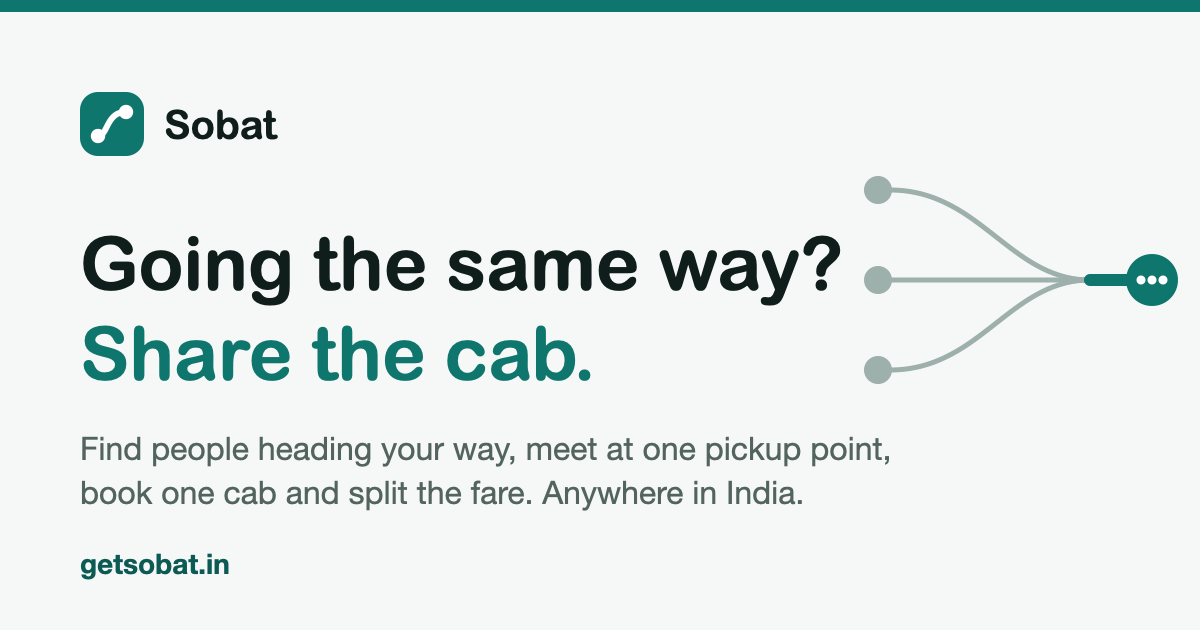
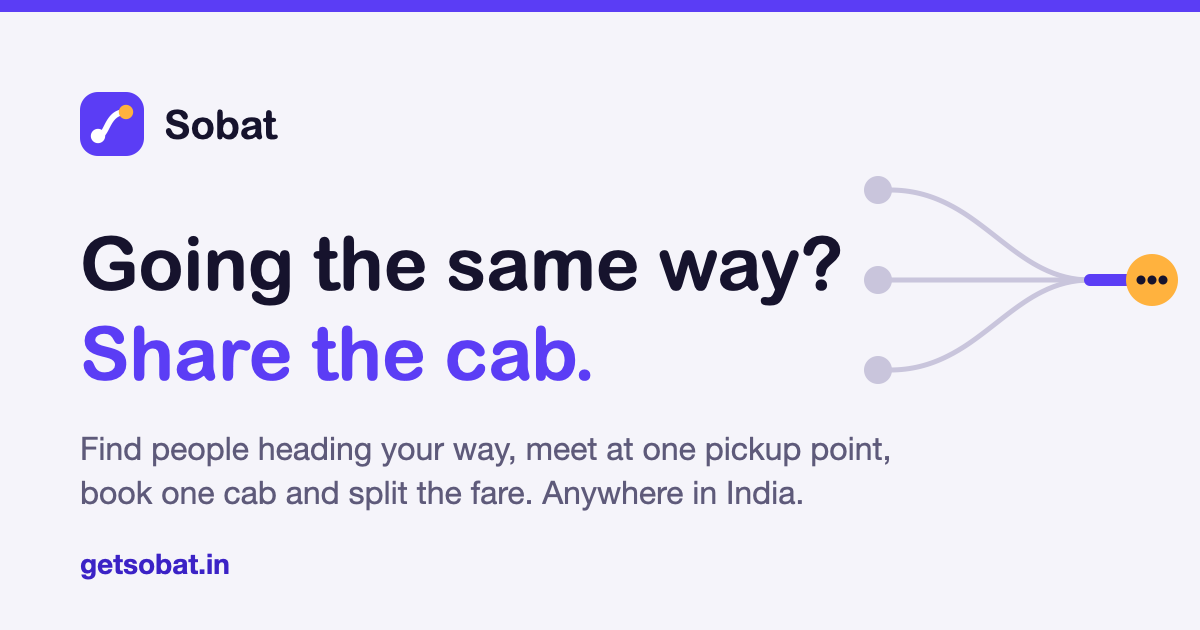
New look and copy to match the redesigned app
Indigo / marigold brand (logo, favicon, share image, icons, CSS colours
in light and dark mode). How it works now reads "say where you're
going, join a ride or start one". Safety copy no longer claims every
rider is ID-verified before their first ride (they verify a mobile
number; ID checks come later) and adds "rides, not profiles". Privacy
and Terms mirror the app's updated drafts: what stays on the phone, who
sees what before and after joining, 30-day chat and location retention.

diff --git a/index.html b/index.html
@@ -20,7 +20,7 @@
   <meta name="twitter:title" content="Sobat: Share a Cab and Split the Fare | Cab Sharing in India">
   <meta name="twitter:description" content="Cab sharing for India. Find people going the same way, meet at one pickup point, book one Ola, Uber or auto, and split the fare. Women-only rides too.">
   <meta name="twitter:image" content="https://getsobat.in/assets/og-image.png">
-  <meta name="theme-color" content="#0F766E">
+  <meta name="theme-color" content="#5B3DF5">
   <link rel="icon" href="assets/favicon.svg" type="image/svg+xml">
   <link rel="apple-touch-icon" href="assets/apple-touch-icon.png">
   <link rel="stylesheet" href="assets/site.css">
@@ -54,7 +54,7 @@
           "name": "How do I share a cab with someone going the same way?",
           "acceptedAnswer": {
             "@type": "Answer",
-            "text": "Post your trip on Sobat with your pickup point, drop point and departure time. Sobat shows rides heading to the same area at about the same time. Join one, meet your group at the pickup point, and book a single cab together."
+            "text": "Tell Sobat where you're going. It shows rides already heading there at about the same time, nearest first. Join one in a tap, or start your own so others going your way can join. Then meet at the pickup point and book a single cab together."
           }
         },
         {
@@ -70,7 +70,7 @@
           "name": "Is sharing a cab with strangers safe?",
           "acceptedAnswer": {
             "@type": "Answer",
-            "text": "Every rider is verified before their first ride, riders rate each other after every trip, and everyone meets at a public pickup point. You coordinate in a group chat without sharing phone numbers, and you can report or block anyone."
+            "text": "Every rider signs in with a verified mobile number, riders rate each other after every ride, and everyone meets at a public pickup point. Before you join, you see the ride, not the people. You coordinate in the ride's chat without sharing phone numbers, and you can report or block anyone."
           }
         },
         {
@@ -94,7 +94,7 @@
           "name": "Where does Sobat work?",
           "acceptedAnswer": {
             "@type": "Answer",
-            "text": "Anywhere in India. Post a trip from wherever you are. The more people near you use Sobat, the quicker you'll find someone going your way, so tell your colleagues and friends."
+            "text": "Anywhere in India. Search from wherever you are. The more people near you use Sobat, the quicker you'll find someone going your way, so tell your colleagues and friends."
           }
         },
         {
@@ -123,7 +123,7 @@
   <header class="site-header">
     <div class="container">
       <a class="brand" href="./" aria-label="Sobat home">
-        <svg viewBox="0 0 32 32" aria-hidden="true"><rect width="32" height="32" rx="9" fill="#0F766E"/><path d="M9 22C14 22 13 10 23 10" stroke="#FFFFFF" stroke-width="3" fill="none" stroke-linecap="round"/><circle cx="9" cy="22" r="3.6" fill="#FFFFFF"/><circle cx="23" cy="10" r="3.6" fill="#FFFFFF"/></svg>
+        <svg viewBox="0 0 32 32" aria-hidden="true"><rect width="32" height="32" rx="9" fill="#5B3DF5"/><path d="M9 22C14 22 13 10 23 10" stroke="#FFFFFF" stroke-width="3" fill="none" stroke-linecap="round"/><circle cx="9" cy="22" r="3.6" fill="#FFFFFF"/><circle cx="23" cy="10" r="3.6" fill="#FFB23E"/></svg>
         Sobat
       </a>
       <nav class="site-nav" aria-label="Main">
@@ -240,8 +240,8 @@
           <h2>Four steps from solo cab to shared ride</h2>
         </div>
         <ol class="steps reveal">
-          <li><h3>Post your trip</h3><p>Set your pickup, your drop, and when you're leaving. Right now, or later today.</p></li>
-          <li><h3>Find people going your way</h3><p>See rides heading to the same area at the same time, and choose one to join.</p></li>
+          <li><h3>Say where you're going</h3><p>Pick your drop and when you're leaving: right now, or later. Your pickup is where you are.</p></li>
+          <li><h3>Join a ride, or start one</h3><p>See rides already going your way, nearest first, and join in a tap. Nothing fits? Start one, and anyone searching your route sees it.</p></li>
           <li><h3>Meet at the pickup point</h3><p>One meeting spot per ride. Tap "I'm here" so everyone knows who has arrived.</p></li>
           <li><h3>Book one cab, split the fare</h3><p>One person books the Ola, Uber or auto. Everyone settles their share by UPI or cash.</p></li>
         </ol>
@@ -264,11 +264,11 @@
           <h2>Built for riding with people you haven't met yet</h2>
         </div>
         <div class="grid-3 reveal">
-          <div><h3>Verified riders</h3><p>Every rider is verified before their first shared ride. One account per person.</p></div>
+          <div><h3>Rides, not profiles</h3><p>Before you join, you see where a ride goes, when it leaves and how it's rated, never who's in it.</p></div>
+          <div><h3>Verified numbers</h3><p>Every rider signs in with a verified mobile number. One account per person.</p></div>
           <div><h3>Women-only rides</h3><p>Women can choose rides where every rider is a woman.</p></div>
           <div><h3>Ratings both ways</h3><p>Riders rate each other after every trip, so no-shows and bad behaviour become visible.</p></div>
-          <div><h3>No phone numbers shared</h3><p>Coordinate in the ride's group chat. Your number stays private.</p></div>
-          <div><h3>One meeting point</h3><p>Everyone meets at the same public spot, with a live board showing who has arrived.</p></div>
+          <div><h3>No phone numbers shared</h3><p>Coordinate in the ride's chat, with quick replies. Your number stays private.</p></div>
           <div><h3>Report and block</h3><p>Report anyone who makes you uncomfortable, and block them from ever matching with you again.</p></div>
         </div>
       </div>
@@ -283,7 +283,7 @@
         <div class="faq reveal">
           <details>
             <summary>How do I share a cab with someone going the same way?</summary>
-            <p>Post your trip on Sobat with your pickup point, drop point and departure time. Sobat shows rides heading to the same area at about the same time. Join one, meet your group at the pickup point, and book a single cab together.</p>
+            <p>Tell Sobat where you're going. It shows rides already heading there at about the same time, nearest first. Join one in a tap, or start your own so others going your way can join. Then meet at the pickup point and book a single cab together.</p>
           </details>
           <details>
             <summary>How is the cab fare split?</summary>
@@ -291,7 +291,7 @@
           </details>
           <details>
             <summary>Is sharing a cab with strangers safe?</summary>
-            <p>Every rider is verified before their first ride, riders rate each other after every trip, and everyone meets at a public pickup point. You coordinate in a group chat without sharing phone numbers, and you can report or block anyone.</p>
+            <p>Every rider signs in with a verified mobile number, riders rate each other after every ride, and everyone meets at a public pickup point. Before you join, you see the ride, not the people. You coordinate in the ride's chat without sharing phone numbers, and you can report or block anyone.</p>
           </details>
           <details>
             <summary>Can women choose women-only rides?</summary>
@@ -303,7 +303,7 @@
           </details>
           <details>
             <summary>Where does Sobat work?</summary>
-            <p>Anywhere in India. Post a trip from wherever you are. The more people near you use Sobat, the quicker you'll find someone going your way, so tell your colleagues and friends.</p>
+            <p>Anywhere in India. Search from wherever you are. The more people near you use Sobat, the quicker you'll find someone going your way, so tell your colleagues and friends.</p>
           </details>
           <details>
             <summary>Does Sobat book the cab for us?</summary>

diff --git a/privacy.html b/privacy.html
@@ -14,7 +14,7 @@
   <meta property="og:image" content="https://getsobat.in/assets/og-image.png">
   <meta name="twitter:card" content="summary_large_image">
   <link rel="apple-touch-icon" href="assets/apple-touch-icon.png">
-  <meta name="theme-color" content="#0F766E">
+  <meta name="theme-color" content="#5B3DF5">
   <link rel="icon" href="assets/favicon.svg" type="image/svg+xml">
   <link rel="stylesheet" href="assets/site.css">
 </head>
@@ -22,7 +22,7 @@
   <header class="site-header">
     <div class="container">
       <a class="brand" href="./" aria-label="Sobat home">
-        <svg viewBox="0 0 32 32" aria-hidden="true"><rect width="32" height="32" rx="9" fill="#0F766E"/><path d="M9 22C14 22 13 10 23 10" stroke="#FFFFFF" stroke-width="3" fill="none" stroke-linecap="round"/><circle cx="9" cy="22" r="3.6" fill="#FFFFFF"/><circle cx="23" cy="10" r="3.6" fill="#FFFFFF"/></svg>
+        <svg viewBox="0 0 32 32" aria-hidden="true"><rect width="32" height="32" rx="9" fill="#5B3DF5"/><path d="M9 22C14 22 13 10 23 10" stroke="#FFFFFF" stroke-width="3" fill="none" stroke-linecap="round"/><circle cx="9" cy="22" r="3.6" fill="#FFFFFF"/><circle cx="23" cy="10" r="3.6" fill="#FFB23E"/></svg>
         Sobat
       </a>
       <nav class="site-nav" aria-label="Main">
@@ -49,23 +49,34 @@
     <h2>What we collect</h2>
     <p>To run the matching and safety features described below, we collect:</p>
     <ul>
-      <li>Phone number, and email if you sign in with Google</li>
-      <li>First name and profile photo</li>
-      <li>Gender, age range, and a coarse profession category — shown only to riders you’re matched with</li>
-      <li>Pickup and drop locations for each trip you post, and your device location if you use “current location” to set one</li>
-      <li>Identity verification result from our KYC provider (a pass/fail outcome only — we never store your ID number or a copy of your ID document ourselves)</li>
-      <li>Messages you send in a group chat, and ratings you give or receive</li>
-      <li>A push-notification token, if you allow notifications</li>
+      <li>Your phone number, and your email if you sign in with Google.</li>
+      <li>Your first and last name, profile photo, date of birth and gender. Riders you share a ride with see your first name, photo and an age range worked out from your date of birth. They never see your last name, date of birth or phone number.</li>
+      <li>A coarse profession category, if you choose to add one.</li>
+      <li>Pickup and drop points for rides you start or join, and your device location when you use “current location” or look for rides leaving near you.</li>
+      <li>The routes people search, kept only as a daily count per area of about 1 km, with nothing that identifies who searched.</li>
+      <li>If you verify your identity: the result from our licensed verification provider (pass or fail only). We never store your ID number or a copy of your ID document.</li>
+      <li>Messages you send in a ride’s chat, ratings you give or receive, and reports you file.</li>
+      <li>A push-notification token, if you allow notifications.</li>
     </ul>
 
+    <h2>What stays on your phone</h2>
+    <p>Your saved Home and Work places and your recent places are stored only on your phone. They’re never uploaded. We only see a place when you search for, start or join a ride with it.</p>
+
     <h2>Why we collect it</h2>
-    <p>Only to match you with compatible riders, coordinate the meetup, verify identity before a first ride, and let riders rate each other. We don’t use your data for advertising, and we don’t sell it.</p>
+    <p>Only to show you rides going your way, put you in a ride with compatible riders, help you meet up, notify you about your rides, and let riders rate each other. We don’t use your data for advertising, and we don’t sell it.</p>
+
+    <h2>Who sees what</h2>
+    <p>Before you join a ride, other riders see only facts about it: where and when it goes, how many seats are left, and its riders’ average rating. They never see who is in it. Once you’re in a ride together, its riders see each other’s first name, photo, age range, profession and rating. A ride’s chat is visible only to its riders.</p>
 
     <h2>Who we share it with</h2>
-    <p>We use a small number of service providers to run the app, each processing only what they need to do their job: Supabase (hosting our database and login), Twilio (sending SMS verification codes), Google (sign-in, and location search), Expo (delivering push notifications), GitHub (hosting this website), and our identity verification provider. None of them are permitted to use your data for their own purposes.</p>
+    <p>We use a few service providers to run the app, each processing only what it needs: Supabase (our database, sign-in and live updates), our SMS provider (verification codes), Google (Google sign-in and place search), your phone’s own maps service from Apple or Google (to name a point you drop on the map), Expo (push notifications), GitHub (hosting this website), and, once available, our identity verification provider. None of them may use your data for their own purposes.</p>
 
-    <h2>Location data</h2>
-    <p>Pickup and drop points you post are visible to riders you’re matched or browsing candidates with. We treat this as our most sensitive data category — it’s kept only as long as needed for the trip and matching history, and access is limited to people you’ve actually matched with.</p>
+    <h2>How long we keep it</h2>
+    <ul>
+      <li>A ride’s chat is deleted 30 days after the ride ends.</li>
+      <li>Exact pickup and drop points are rounded to an area of about 1 km 30 days after a ride ends. We keep that area-level history for your ride list and our statistics.</li>
+      <li>Your account and everything linked to it is deleted when you delete your account.</li>
+    </ul>
 
     <h2>Website and newsletter</h2>
     <p>If you subscribe to updates on this website, we store your email address only to send you news about Sobat, such as when it launches. You can unsubscribe at any time. This website doesn’t use cookies, advertising or analytics trackers.</p>

diff --git a/terms.html b/terms.html
@@ -14,7 +14,7 @@
   <meta property="og:image" content="https://getsobat.in/assets/og-image.png">
   <meta name="twitter:card" content="summary_large_image">
   <link rel="apple-touch-icon" href="assets/apple-touch-icon.png">
-  <meta name="theme-color" content="#0F766E">
+  <meta name="theme-color" content="#5B3DF5">
   <link rel="icon" href="assets/favicon.svg" type="image/svg+xml">
   <link rel="stylesheet" href="assets/site.css">
 </head>
@@ -22,7 +22,7 @@
   <header class="site-header">
     <div class="container">
       <a class="brand" href="./" aria-label="Sobat home">
-        <svg viewBox="0 0 32 32" aria-hidden="true"><rect width="32" height="32" rx="9" fill="#0F766E"/><path d="M9 22C14 22 13 10 23 10" stroke="#FFFFFF" stroke-width="3" fill="none" stroke-linecap="round"/><circle cx="9" cy="22" r="3.6" fill="#FFFFFF"/><circle cx="23" cy="10" r="3.6" fill="#FFFFFF"/></svg>
+        <svg viewBox="0 0 32 32" aria-hidden="true"><rect width="32" height="32" rx="9" fill="#5B3DF5"/><path d="M9 22C14 22 13 10 23 10" stroke="#FFFFFF" stroke-width="3" fill="none" stroke-linecap="round"/><circle cx="9" cy="22" r="3.6" fill="#FFFFFF"/><circle cx="23" cy="10" r="3.6" fill="#FFB23E"/></svg>
         Sobat
       </a>
       <nav class="site-nav" aria-label="Main">
@@ -43,28 +43,28 @@
     <p class="updated">Last updated: [date]</p>
 
     <h2>What Sobat is</h2>
-    <p>Sobat helps people going the same way find each other and split a cab fare. We are not a ride-hailing company: we have no drivers, no vehicles, and we never process any payment for your ride. You book your own Ola, Uber, or auto, and you settle the fare with your group directly (UPI, cash — however you agree).</p>
+    <p>Sobat helps people going the same way find each other and split a cab fare. We are not a ride-hailing company: we have no drivers, no vehicles, and we never process any payment for your ride. One of you books a normal cab or auto, and you settle the fare with your co-riders directly (UPI, cash, however you agree).</p>
 
     <h2>Where our responsibility ends</h2>
-    <p>Our part is matching you with compatible riders and helping you meet up safely. Once your group has met and booked a ride, that ride is between you, your group, and the driver — the same as it would be for any group of friends sharing a cab. We don’t track, monitor, or take responsibility for what happens during the ride itself.</p>
+    <p>Our part is helping you find compatible riders and meet up safely. Once your group has met and booked a ride, that ride is between you, your co-riders and the driver, the same as it would be for any group of friends sharing a cab. We don’t track, monitor or take responsibility for what happens during the ride itself.</p>
 
     <h2>Who can use Sobat</h2>
-    <p>You must be 18 or older, provide accurate information, and complete identity verification before your first ride. One account per person.</p>
+    <p>You must be 18 or older, provide accurate information, and verify your mobile number. We may ask you to verify your identity through a licensed provider. One account per person.</p>
 
     <h2>How to behave</h2>
-    <p>Show up when you say you will. Be honest about your pickup, drop, and how many people you’re bringing. Treat other riders with respect — harassment, threats, or discrimination have no place here and will get your account removed. Report anyone who makes you feel unsafe using the report option in your group.</p>
+    <p>Show up when you say you will. Be honest about your pickup, drop, and how many people you’re bringing. Treat other riders with respect: harassment, threats or discrimination have no place here and will get your account removed. Report anyone who makes you feel unsafe using the report option in the ride room.</p>
 
     <h2>Fare</h2>
-    <p>Any fare split shown in the app is informational only, based on what riders enter — it is not a bill, an invoice, or a guarantee of the actual fare. Settling the fare is entirely between you and your group.</p>
+    <p>Any fare split shown in the app is informational only, based on what riders enter. It is not a bill, an invoice, or a guarantee of the actual fare. Settling the fare is entirely between you and your co-riders.</p>
 
     <h2>Ratings and content</h2>
     <p>You’re responsible for what you post — your profile, messages, and ratings. We can remove content or suspend an account that violates these terms or makes the platform unsafe for others.</p>
 
     <h2>No warranty</h2>
-    <p>We do our best to match you with people who are actually going your way and who show up, but we can’t guarantee a match, a ride, or another rider’s behavior. Sobat is provided as-is.</p>
+    <p>We do our best to show you rides that are actually going your way, with people who show up, but we can’t guarantee a match, a ride, or another rider’s behaviour. Sobat is provided as-is.</p>
 
     <h2>Limitation of liability</h2>
-    <p>To the maximum extent the law allows, [Company/Entity Name] is not liable for anything that happens once your group has met and arranged its own ride, or for the conduct of any rider you’re matched with.</p>
+    <p>To the maximum extent the law allows, [Company/Entity Name] is not liable for anything that happens once your group has met and arranged its own ride, or for the conduct of any rider you share a ride with.</p>
 
     <h2>Ending your account</h2>
     <p>You can delete your account at any time from Profile → Delete account in the app, or on our website at <a href="delete-account.html">getsobat.in/delete-account.html</a>. We can suspend or remove an account that violates these terms.</p>

diff --git a/assets/site.css b/assets/site.css
@@ -2,14 +2,14 @@
    Layout: a narrow reading column for legal pages, a wider one for the home page.
    System fonts only, so the site makes no third-party requests. */
 :root {
-  --bg: #F6F8F7;
+  --bg: #F5F4FA;
   --surface: #FFFFFF;
-  --ink: #0F1D1B;
-  --muted: #53645F;
-  --line: #DCE5E2;
-  --accent: #0F766E;
-  --accent-ink: #0B5A54;
-  --accent-soft: #E0F1EE;
+  --ink: #16132D;
+  --muted: #5E5A7A;
+  --line: #E8E5F2;
+  --accent: #5B3DF5;
+  --accent-ink: #3B22C6;
+  --accent-soft: #EDE9FF;
   --on-accent: #FFFFFF;
   --warn-bg: #FEF3C7;
   --warn-ink: #92400E;
@@ -22,15 +22,15 @@
 }
 @media (prefers-color-scheme: dark) {
   :root {
-    --bg: #0D1514;
-    --surface: #141E1C;
-    --ink: #E3ECE9;
-    --muted: #97A9A4;
-    --line: #24322F;
-    --accent: #34B5A7;
-    --accent-ink: #5FD0C2;
-    --accent-soft: #11332F;
-    --on-accent: #062320;
+    --bg: #0F0C24;
+    --surface: #1A1638;
+    --ink: #ECEAF6;
+    --muted: #A9A6C4;
+    --line: #2C2752;
+    --accent: #9C87FF;
+    --accent-ink: #B9A8FF;
+    --accent-soft: #251E57;
+    --on-accent: #120E2E;
     --warn-bg: #3A2C0E;
     --warn-ink: #F3C567;
     --danger: #F2857A;
@@ -109,7 +109,7 @@ h3 { font-size: 18px; font-weight: 700; }
 .name-note span[lang="mr"] { font-weight: 600; color: var(--ink); }
 
 /* Home: example ride card */
-.ride-card { background: var(--surface); border: 1px solid var(--line); border-radius: 18px; padding: 20px; display: grid; gap: 14px; box-shadow: 0 18px 40px -28px rgba(15, 29, 27, 0.45); }
+.ride-card { background: var(--surface); border: 1px solid var(--line); border-radius: 18px; padding: 20px; display: grid; gap: 14px; box-shadow: 0 18px 40px -28px rgba(22, 19, 45, 0.45); }
 .ride-card .tag { justify-self: start; font-size: 12px; font-weight: 600; color: var(--muted); border: 1px solid var(--line); border-radius: 999px; padding: 2px 10px; }
 .route { display: grid; grid-template-columns: 14px minmax(0, 1fr); gap: 4px 12px; }
 .route .dot { width: 12px; height: 12px; border-radius: 50%; border: 3px solid var(--accent); margin-top: 6px; background: var(--surface); }
@@ -257,7 +257,7 @@ h3 { font-size: 18px; font-weight: 700; }
     .button { transition: transform 0.15s ease, filter 0.15s ease, background-color 0.15s ease; }
     .button:hover { transform: translateY(-1px); }
     .steps li, .fact, .faq details { transition: transform 0.25s ease, box-shadow 0.25s ease, border-color 0.25s ease; }
-    .steps li:hover, .fact:hover { transform: translateY(-3px); border-color: var(--accent); box-shadow: 0 16px 30px -24px rgba(15, 29, 27, 0.55); }
+    .steps li:hover, .fact:hover { transform: translateY(-3px); border-color: var(--accent); box-shadow: 0 16px 30px -24px rgba(22, 19, 45, 0.55); }
     .faq details:hover { border-color: var(--accent); }
   }
 }

diff --git a/delete-account.html b/delete-account.html
@@ -14,7 +14,7 @@
   <meta property="og:image" content="https://getsobat.in/assets/og-image.png">
   <meta name="twitter:card" content="summary_large_image">
   <link rel="apple-touch-icon" href="assets/apple-touch-icon.png">
-  <meta name="theme-color" content="#0F766E">
+  <meta name="theme-color" content="#5B3DF5">
   <link rel="icon" href="assets/favicon.svg" type="image/svg+xml">
   <link rel="stylesheet" href="assets/site.css">
 </head>
@@ -22,7 +22,7 @@
   <header class="site-header">
     <div class="container">
       <a class="brand" href="./" aria-label="Sobat home">
-        <svg viewBox="0 0 32 32" aria-hidden="true"><rect width="32" height="32" rx="9" fill="#0F766E"/><path d="M9 22C14 22 13 10 23 10" stroke="#FFFFFF" stroke-width="3" fill="none" stroke-linecap="round"/><circle cx="9" cy="22" r="3.6" fill="#FFFFFF"/><circle cx="23" cy="10" r="3.6" fill="#FFFFFF"/></svg>
+        <svg viewBox="0 0 32 32" aria-hidden="true"><rect width="32" height="32" rx="9" fill="#5B3DF5"/><path d="M9 22C14 22 13 10 23 10" stroke="#FFFFFF" stroke-width="3" fill="none" stroke-linecap="round"/><circle cx="9" cy="22" r="3.6" fill="#FFFFFF"/><circle cx="23" cy="10" r="3.6" fill="#FFB23E"/></svg>
         Sobat
       </a>
       <nav class="site-nav" aria-label="Main">

diff --git a/404.html b/404.html
@@ -5,7 +5,7 @@
   <meta name="viewport" content="width=device-width, initial-scale=1, viewport-fit=cover">
   <title>Page not found · Sobat</title>
   <meta name="robots" content="noindex">
-  <meta name="theme-color" content="#0F766E">
+  <meta name="theme-color" content="#5B3DF5">
   <link rel="icon" href="/assets/favicon.svg" type="image/svg+xml">
   <link rel="stylesheet" href="/assets/site.css">
 </head>
